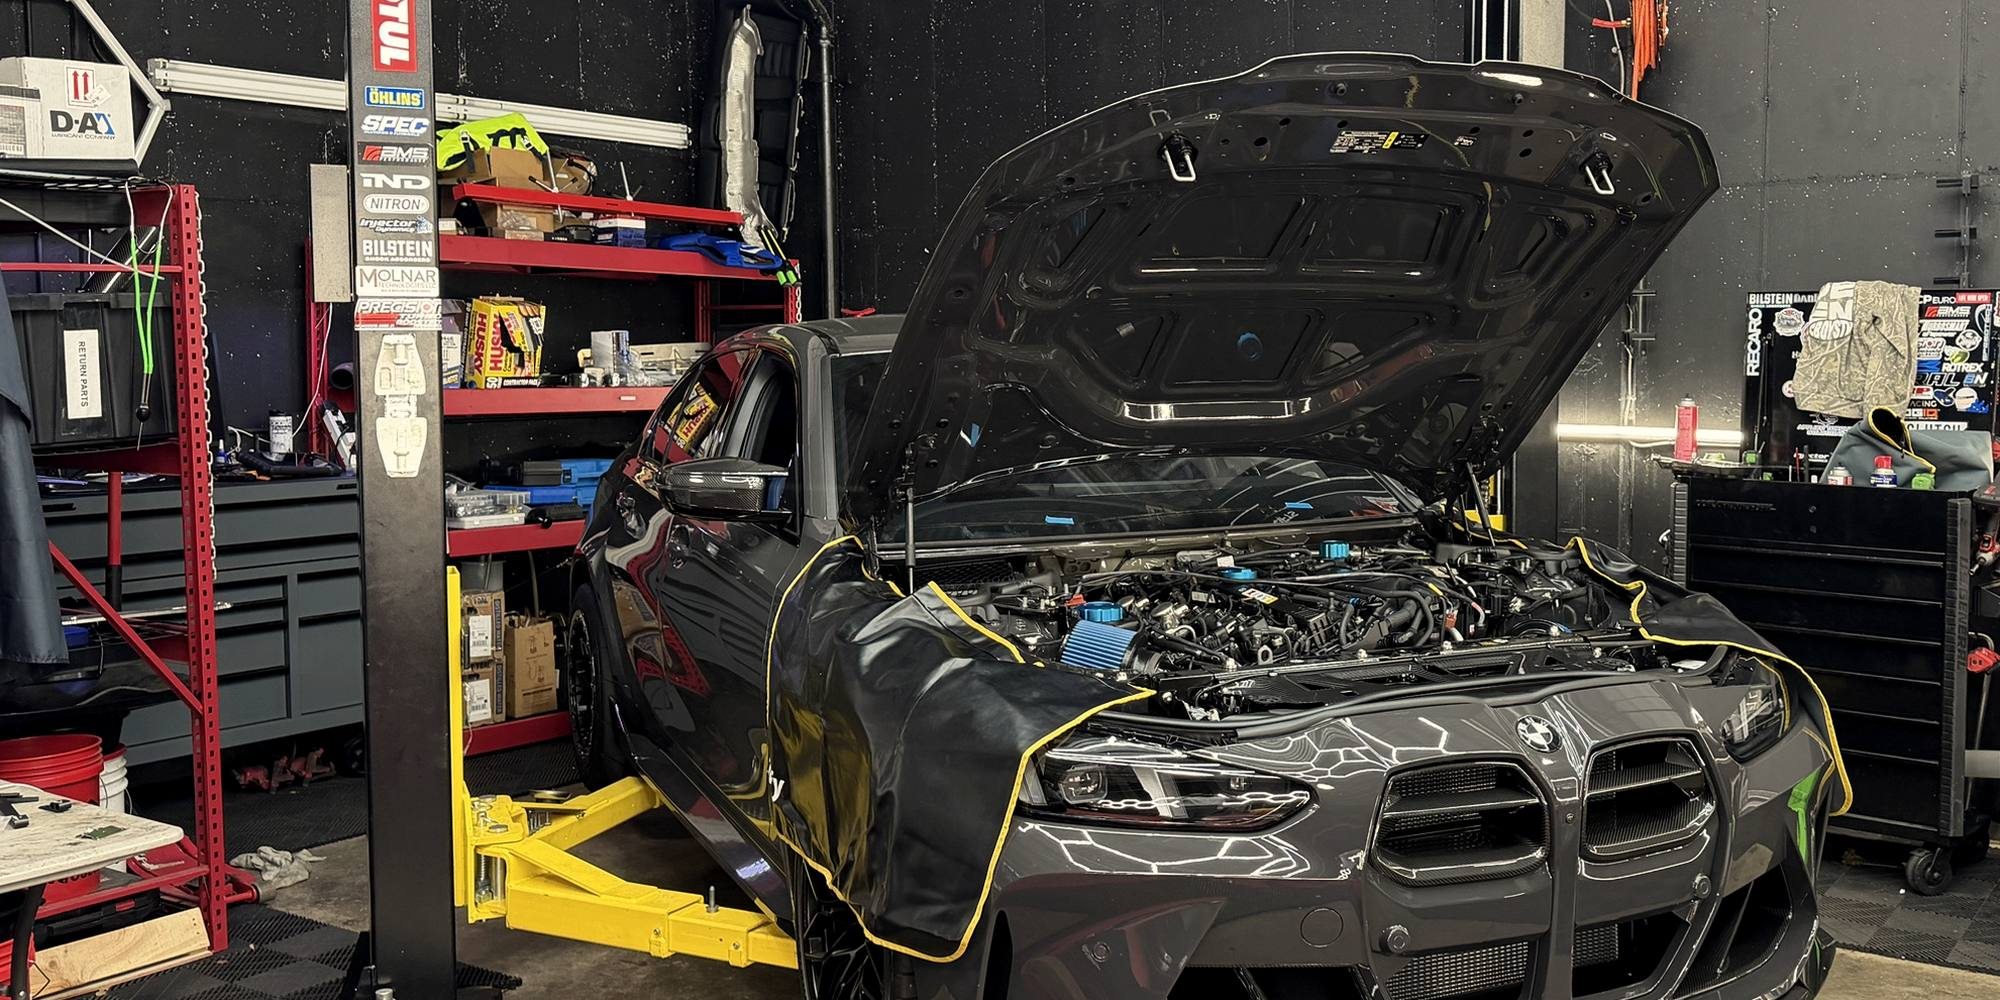
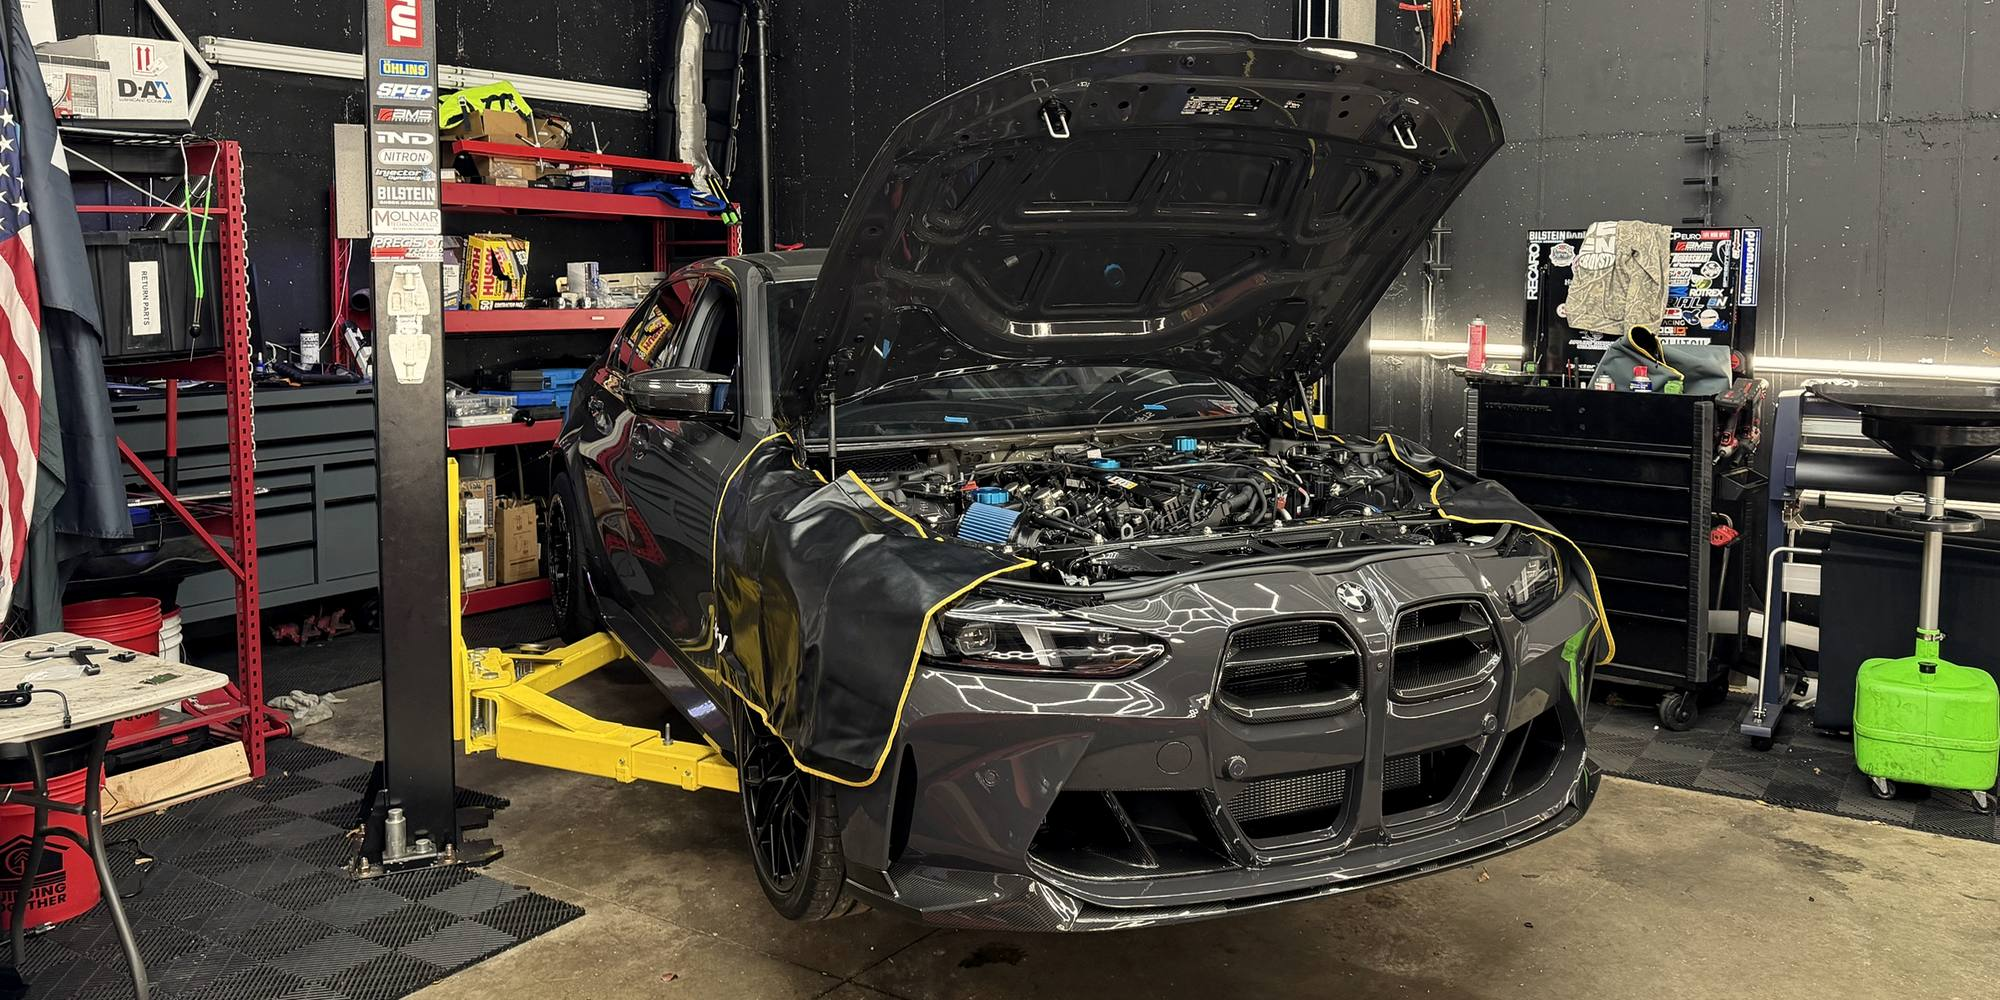
Home hero: desktop crop shows full car, remove broken gold border, add OEM parts chip on hood
Claude-Session: https://claude.ai/code/session_01FjDghypHAc3C4zegzep4wb

diff --git a/static/css/site.css b/static/css/site.css
@@ -734,6 +734,11 @@ a.card:hover{background:linear-gradient(170deg,#25343A,#1A2528)}
 }
 @media (max-width:980px){.hero2{background:linear-gradient(180deg,rgba(9,13,15,.6),rgba(9,13,15,.92)),var(--hero-m,var(--hero)) center/cover}.hero2.has-photo{background:linear-gradient(180deg,rgba(9,13,15,.35),rgba(9,13,15,.9) 80%),var(--hero-m,var(--hero)) center/cover}}
 .hero2.has-photo .chip-ista.chip-warr{left:auto;right:0;bottom:-2%;top:auto}
+.chip-oem{display:none}
+.hero2.has-photo{border-bottom:0}
+.hero2.has-photo::after{height:220px}
+.hero2.has-photo .chip-ista{top:-4%;right:auto;left:8%}
+.hero2.has-photo .chip-ista.chip-oem{display:flex;top:9%;left:20%;right:auto;bottom:auto}
 /* call back: name, phone, vehicle / vin, message, button */
 .cb-form{grid-template-columns:1fr 1fr 1fr}
 .cb-form .cb-msg{grid-column:2/4}

diff --git a/content.py b/content.py
@@ -187,6 +187,7 @@ def home(ctx):
 <img class="medal" src="{L("/img/emblem-gold.svg")}" alt="" width="520" height="520">
 <div class="chip-ista chip-warr">{ICON["check"]}<span>{WARRANTY}<br><small>On parts we supply</small></span></div>
 <div class="chip-ista">{ICON["diag"]}<span>BMW ISTA<br><small>Factory diagnostics</small></span></div>
+<div class="chip-ista chip-oem">{ICON["check"]}<span>Genuine &amp; OEM parts<br><small>No mystery parts</small></span></div>
 </div></div></section>
 
 <section class="section"><div class="wrap">
